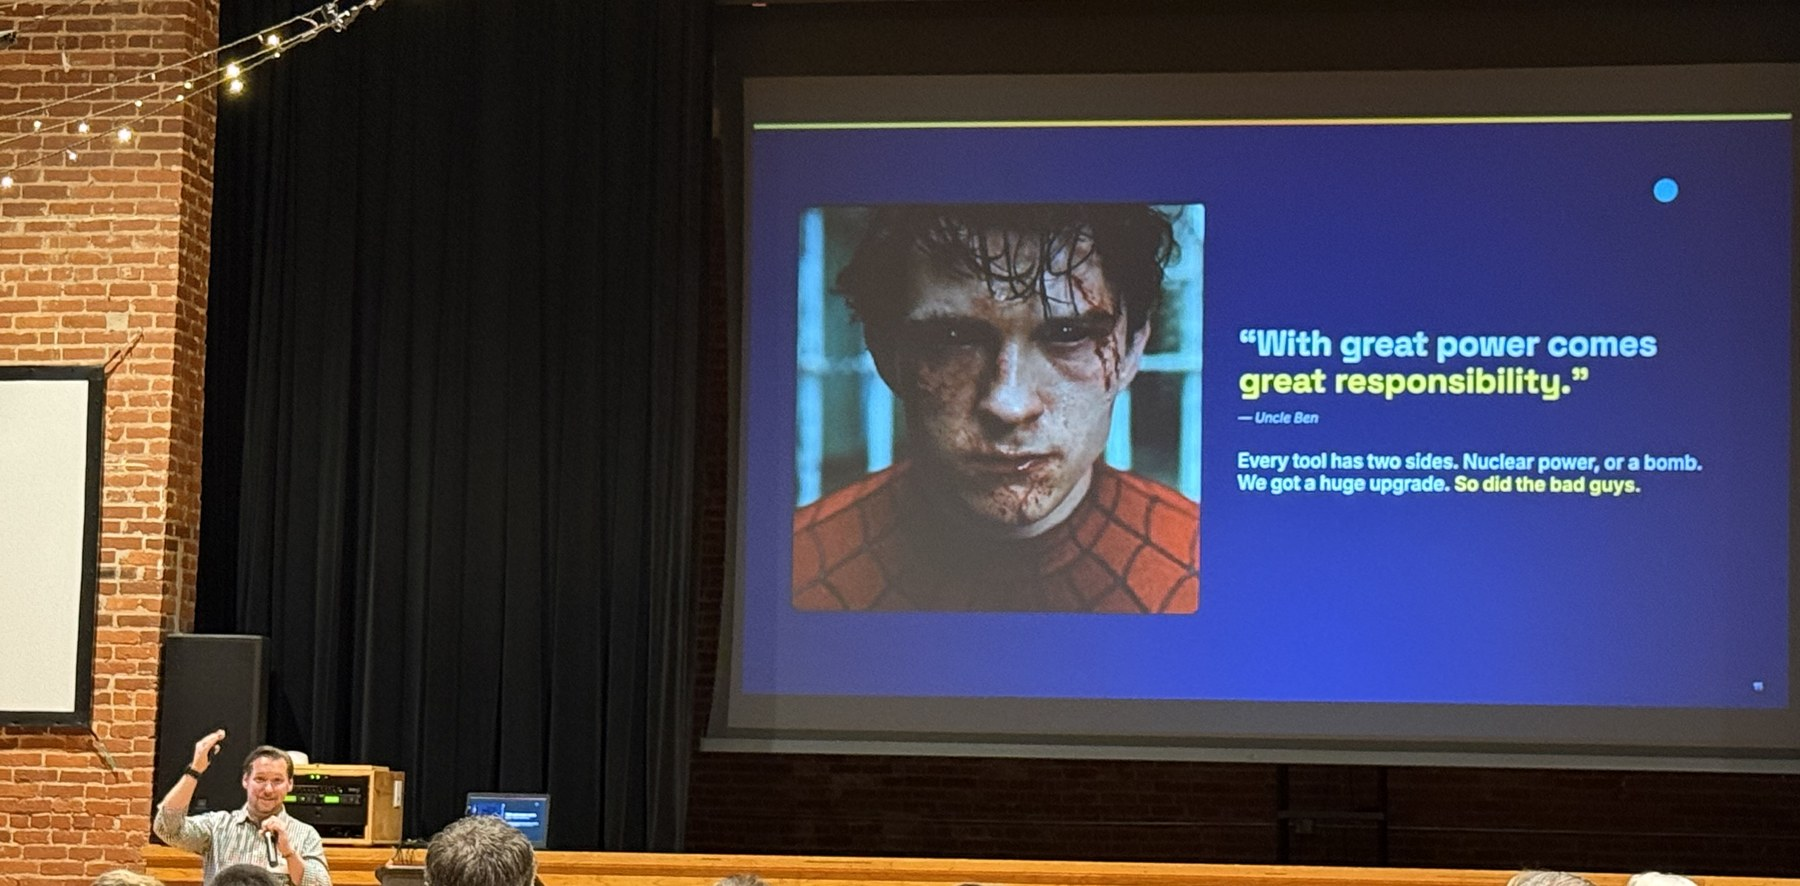
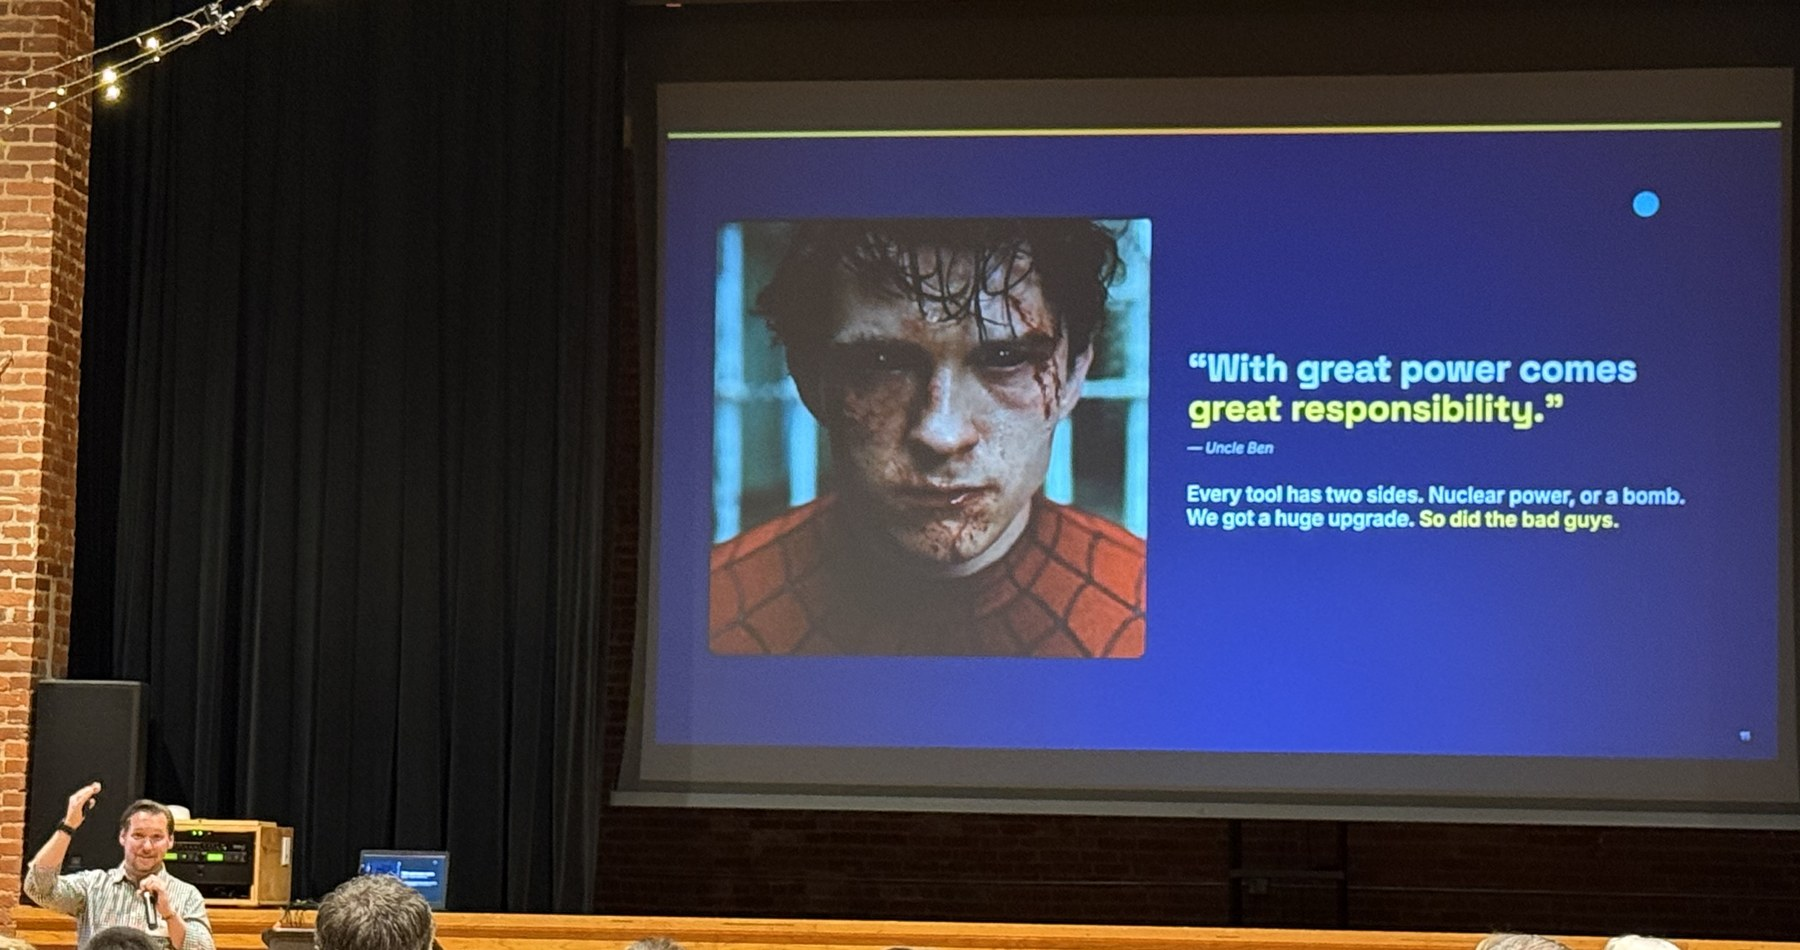
basecamp: slide 17 photo recrop

Changed region(s): [[0.3422, 0.0609, 1.0, 0.8533], [0.0, 0.0, 0.9644, 1.0], [0.9022, 0.1828, 0.9333, 0.2438]]

diff --git a/basecamp/slides/17-great-power.html b/basecamp/slides/17-great-power.html
@@ -5,12 +5,12 @@
 <style>
 h1.slide-title{margin-top:118px;font-size:70px;}
 .wrap{display:flex;gap:50px;margin-top:40px;align-items:stretch;height:670px;}
-.photo{flex:1.3;min-width:0;border-radius:22px;overflow:hidden;border:1px solid rgba(255,255,255,.14);}
+.photo{flex:1.55;min-width:0;border-radius:22px;overflow:hidden;border:1px solid rgba(255,255,255,.14);}
 .photo img{width:100%;height:100%;object-fit:cover;display:block;}
-.side{flex:.8;display:flex;flex-direction:column;justify-content:center;gap:26px;}
-.quote{font-family:'Space Grotesk',sans-serif;font-weight:700;font-size:48px;line-height:1.15;color:#fff;} .quote b{color:var(--gold);}
-.who{font-size:26px;letter-spacing:2px;text-transform:uppercase;color:rgba(255,255,255,.55);}
-.line{font-size:34px;line-height:1.4;color:rgba(255,255,255,.88);border-left:10px solid var(--gold);padding-left:28px;} .line b{color:var(--gold);}
+.side{flex:.62;display:flex;flex-direction:column;justify-content:center;gap:26px;}
+.quote{font-family:'Space Grotesk',sans-serif;font-weight:700;font-size:42px;line-height:1.15;color:#fff;} .quote b{color:var(--gold);}
+.who{font-size:22px;letter-spacing:2px;text-transform:uppercase;color:rgba(255,255,255,.55);}
+.line{font-size:30px;line-height:1.4;color:rgba(255,255,255,.88);border-left:10px solid var(--gold);padding-left:28px;} .line b{color:var(--gold);}
 </style></head>
 <body class="dark">
 
